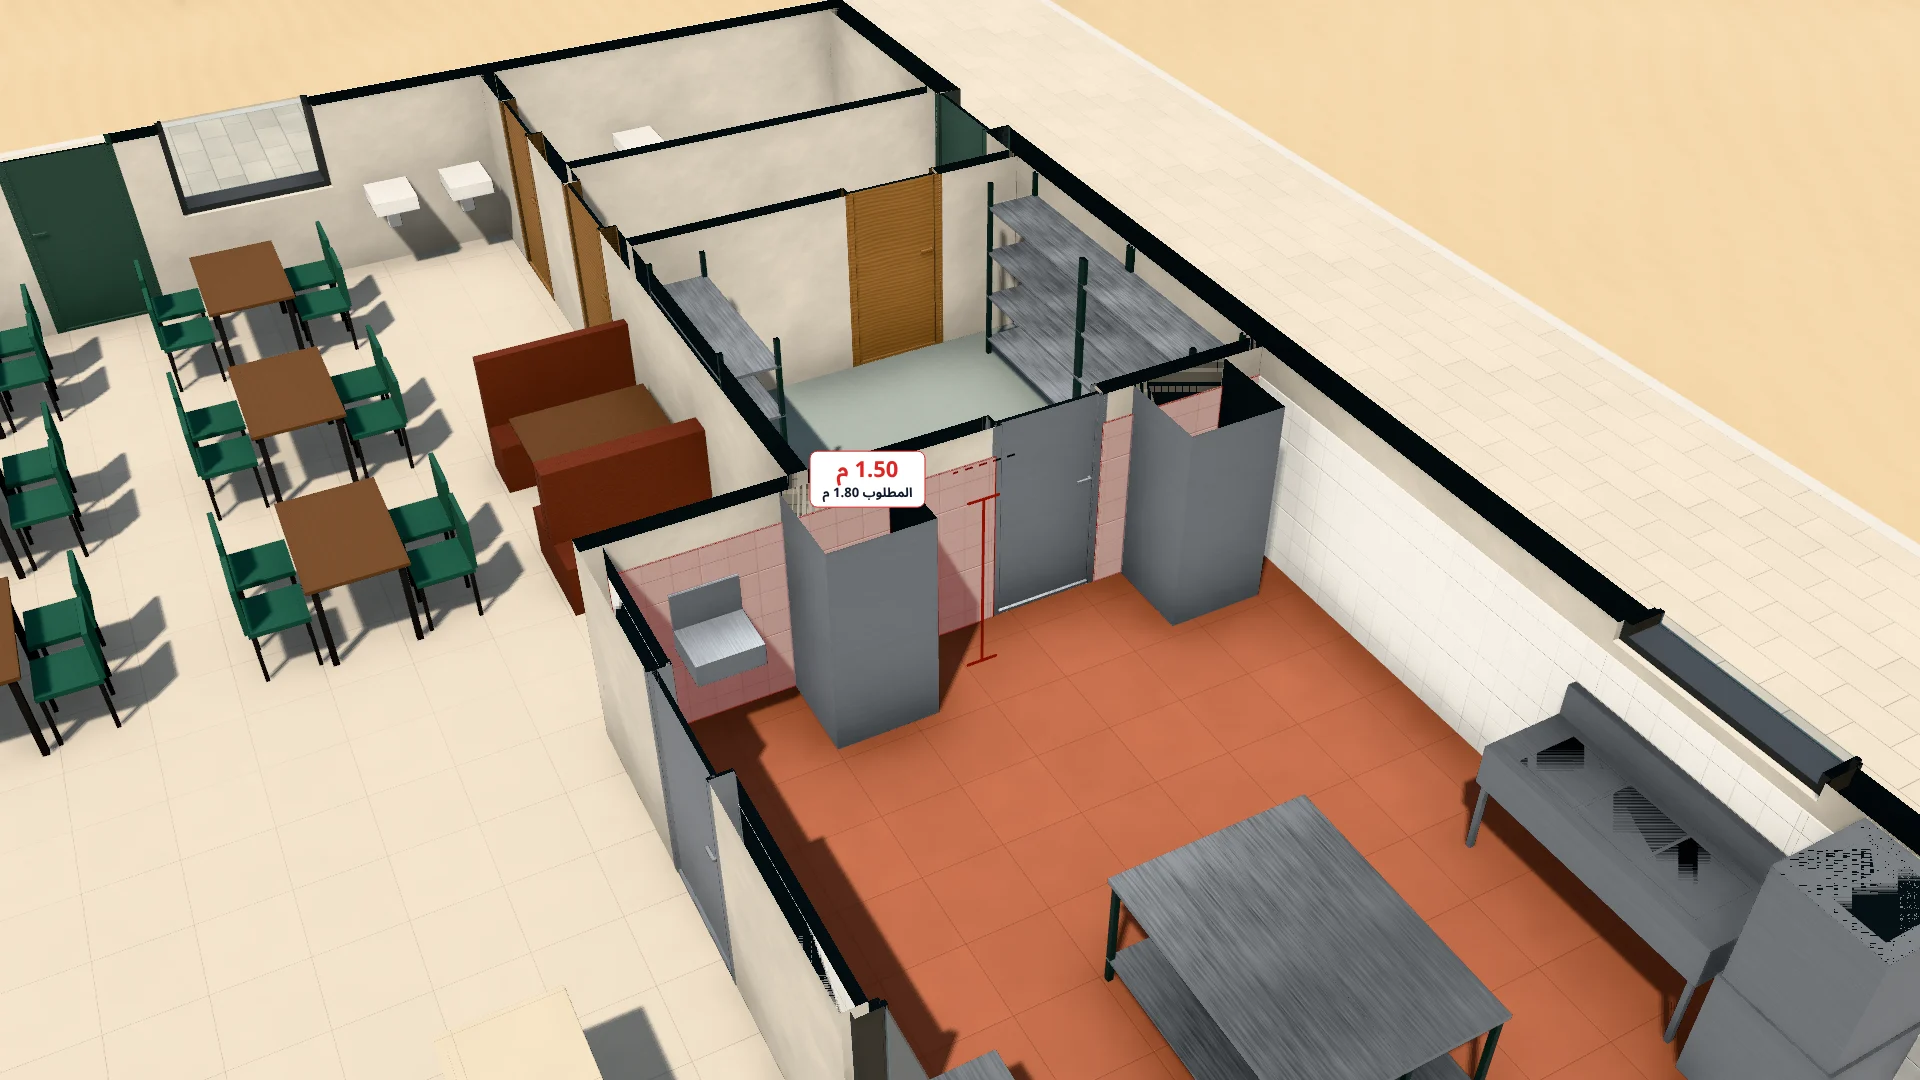
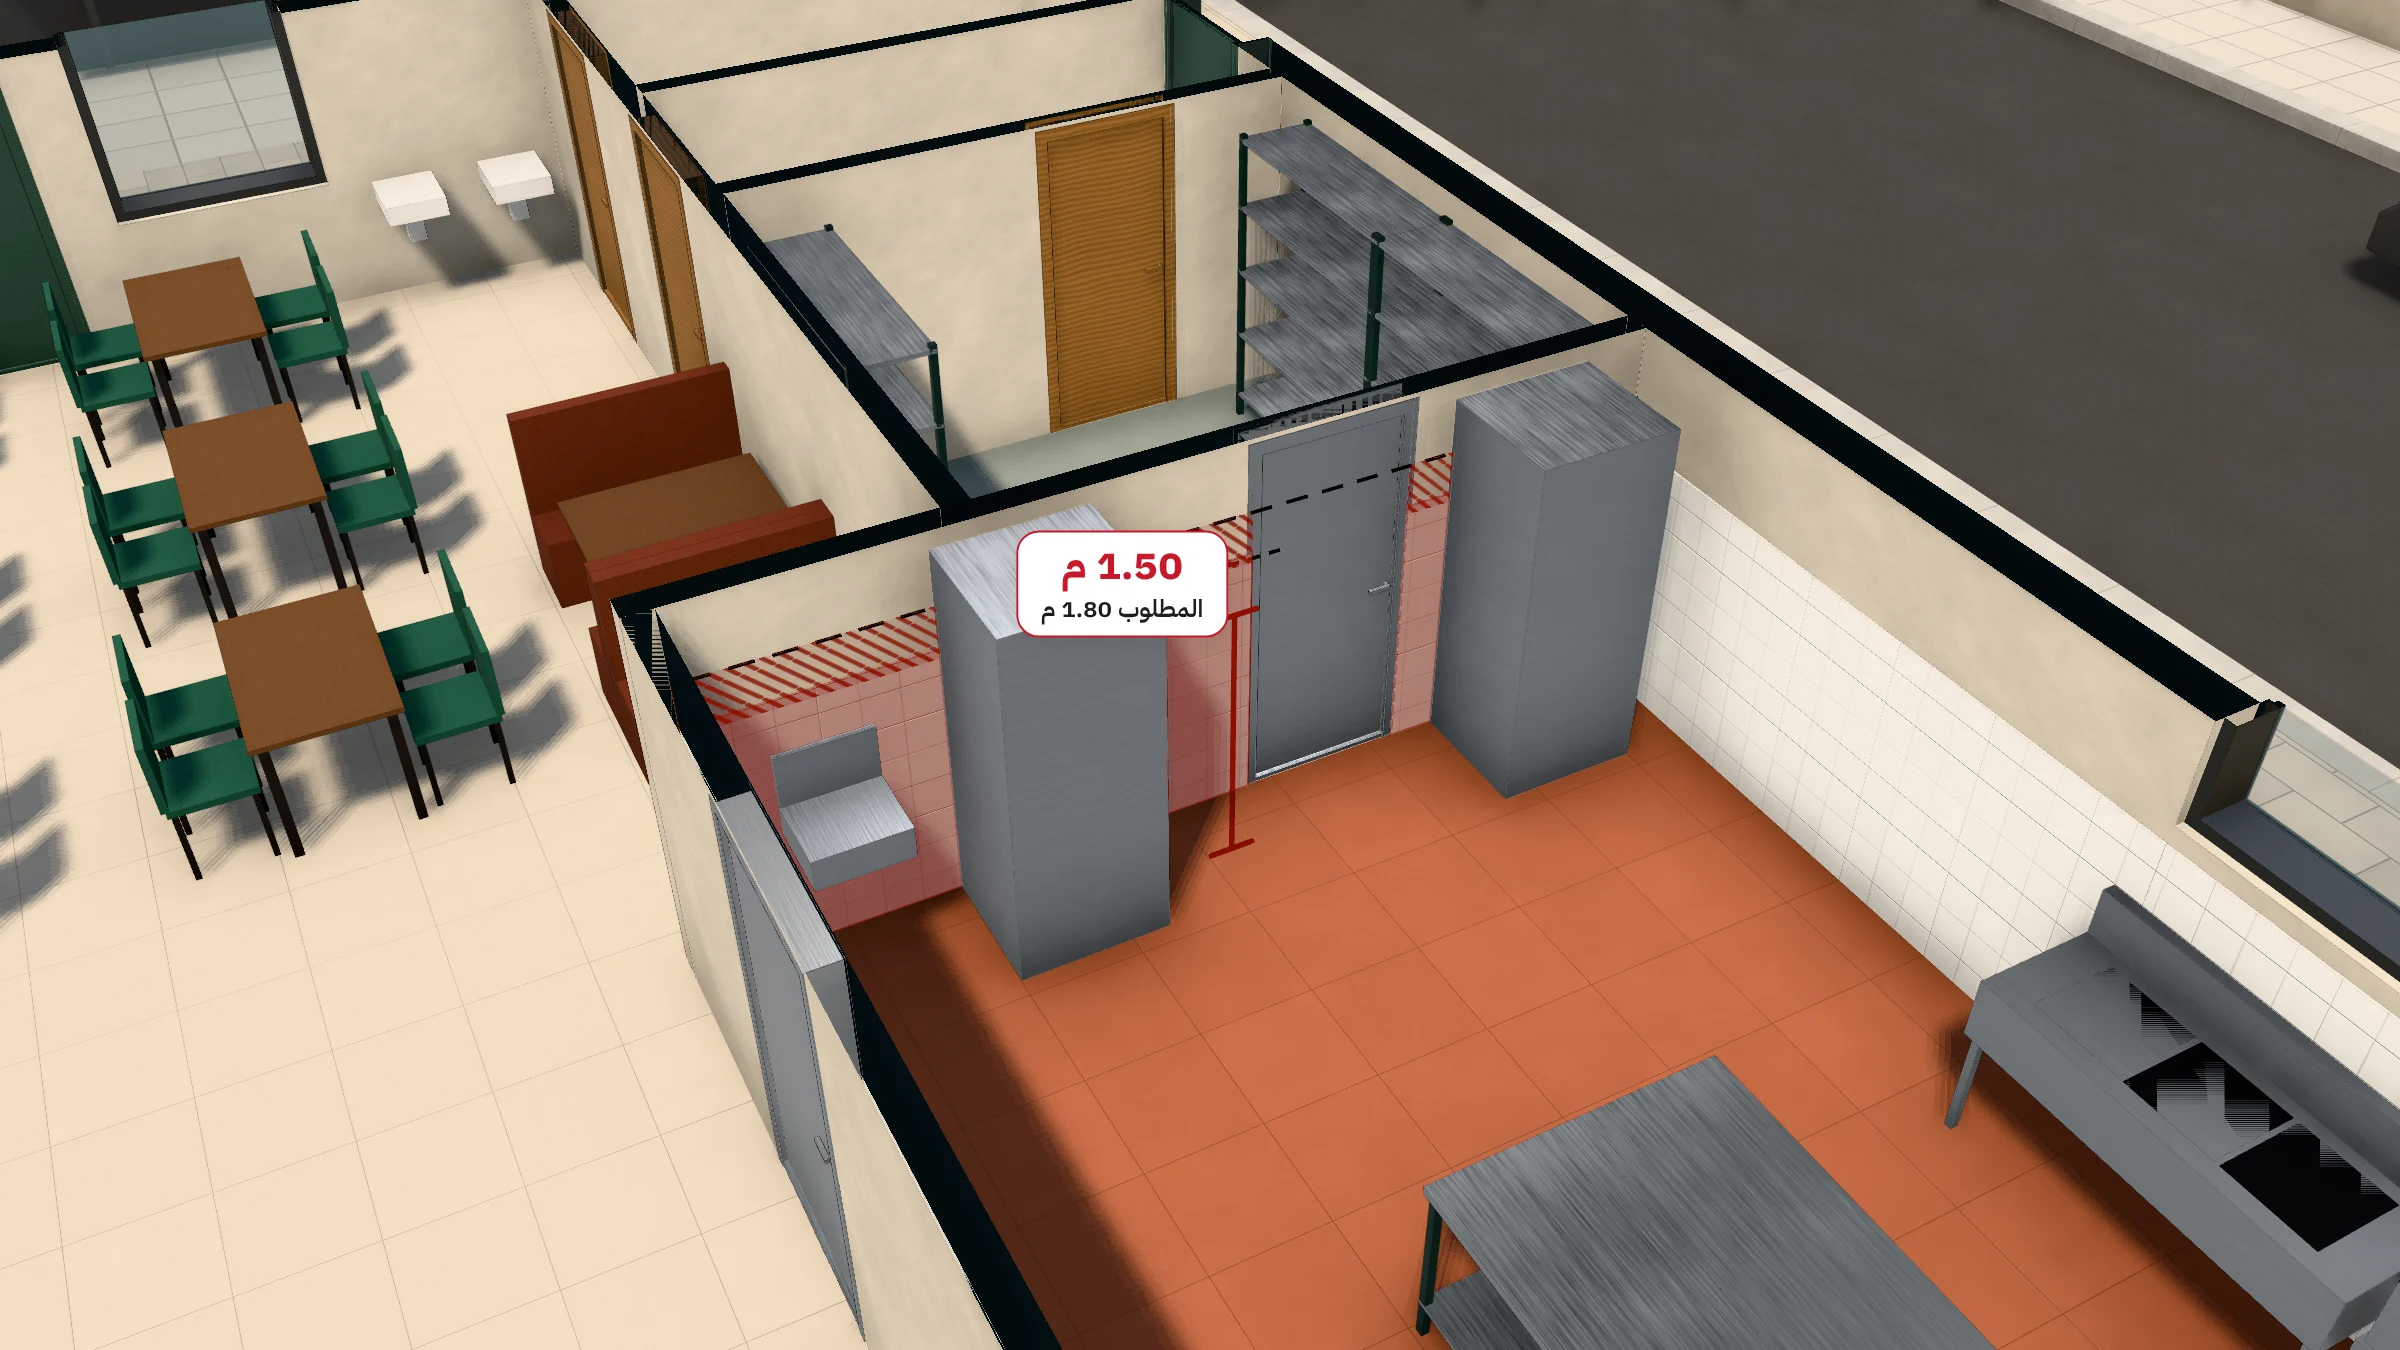
Riyadh street around the model and the twin; final story renders
The sample building now stands on a corner plot in a Riyadh street
(shared SaudiStreet: sidewalks, median palms, Najdi-style neighbours,
parked cars, city haze) in the results viewer and all three twin
scenes. The home page story images and model renders are re-captured
from the real check flow. The twin keeps its camera sightlines clear
through the street's own clear option instead of matching mesh names.

Claude-Session: https://claude.ai/code/session_014NTi94T6RLwaPPPAy7jpHb

diff --git a/src/components/scene/SaudiStreet.tsx b/src/components/scene/SaudiStreet.tsx
@@ -6,8 +6,9 @@ import { finishTextures, siteTextures } from "../ifcViewer/textures";
 
 /*
  * SaudiStreet: a lively Riyadh street block built around one building's footprint. Context only:
- * nothing here comes from a file. Everything is made in code (no downloads), static, instanced
- * (about 35 draw calls at "high"), so it costs nothing per frame beyond drawing it.
+ * nothing here comes from a file. Everything is made in code (no downloads), static and instanced
+ * (about 30 meshes at "high", fewer at "low"), so it costs nothing per frame beyond drawing it. The
+ * detailed street reaches about 86 m either side of the building; a plainer city runs on to about 500 m.
  *
  *   <SaudiStreet footprint={{ minX, minZ, maxX, maxZ }} groundY={0} front="south" />
  *
@@ -27,6 +28,8 @@ import { finishTextures, siteTextures } from "../ifcViewer/textures";
  *   sky        true       a light warm-haze sky dome; pass false when the host draws its own sky.
  *   shadows    true       the near context casts and receives shadows (the far city and skyline never do).
  *   seed       7          varies heights, colours and the parked cars.
+ *   clear      []         world plan rects { x0, x1, z0, z1 } kept clear for a host's cameras: no palm (with its
+ *                         planter), street lamp or car stands with its base inside one. Everything else stays put.
  *
  * Also exported: `streetBounds(props)`, the world plan box of the detailed street (for a shadow camera).
  *
@@ -46,6 +49,14 @@ export interface StreetFootprint {
   maxZ: number;
 }
 
+/** A plan rectangle in world metres (x east, z south). */
+export interface StreetRect {
+  x0: number;
+  x1: number;
+  z0: number;
+  z1: number;
+}
+
 export interface SaudiStreetProps {
   footprint: StreetFootprint;
   groundY?: number;
@@ -56,6 +67,7 @@ export interface SaudiStreetProps {
   sky?: boolean;
   shadows?: boolean;
   seed?: number;
+  clear?: readonly StreetRect[];
 }
 
 /* ---------------- street section (metres) ---------------- */
@@ -519,6 +531,23 @@ function surroundGeometry(w: number, h: number, t: number, d: number): THREE.Buf
   ]);
 }
 
+/** A clipped shrub: a smooth ball with a lumpy, leafy surface (about 0.5 m across, base near y 0). */
+function shrubGeometry(): THREE.BufferGeometry {
+  const g = new THREE.SphereGeometry(0.5, 20, 14);
+  const p = g.getAttribute("position");
+  const v = new THREE.Vector3();
+  for (let i = 0; i < p.count; i++) {
+    v.fromBufferAttribute(p, i);
+    const n = v.clone().normalize();
+    const lump = 1 + 0.07 * Math.sin(n.x * 9.1 + n.y * 3.7) * Math.sin(n.z * 8.3 - n.y * 5.1) + 0.035 * Math.sin(n.x * 23 + n.z * 19);
+    v.multiplyScalar(lump);
+    p.setXYZ(i, v.x, Math.max(v.y, -0.2), v.z);
+  }
+  g.translate(0, 0.3, 0);
+  g.computeVertexNormals();
+  return g;
+}
+
 /** Unit triangular prism: base 1 wide on y 0, apex at y 1, 1 deep centred on z 0. */
 function prismGeometry(): THREE.BufferGeometry {
   const shape = new THREE.Shape([new THREE.Vector2(-0.5, 0), new THREE.Vector2(0.5, 0), new THREE.Vector2(0, 1)]);
@@ -776,6 +805,31 @@ interface Batches {
   shrub: Batch;
 }
 
+function newBatches(): Batches {
+  return {
+    stone: new Batch(),
+    plain: new Batch(),
+    glass: new Batch(),
+    metal: new Batch(),
+    prism: new Batch(),
+    window: new Batch(),
+    slot: new Batch(),
+    cylinder: new Batch(),
+    far: new Batch(),
+    trunk: new Batch(),
+    crown: new Batch(),
+    lamp: new Batch(),
+    lamp2: new Batch(),
+    sedan: new Batch(),
+    sedanCabin: new Batch(),
+    suv: new Batch(),
+    suvCabin: new Batch(),
+    wheel: new Batch(),
+    cone: new Batch(),
+    shrub: new Batch(),
+  };
+}
+
 /** Puts a unit-box element on a facade: `u` along it, `v` up from the ground, `w` out from the wall. */
 function onFace(batch: Batch, face: Face, gy: number, u: number, v: number, w: number, size: [number, number, number], color?: string, tilt = 0) {
   const tx = Math.cos(face.rot);
@@ -929,6 +983,7 @@ const PAINTS = ["#f1f0ec", "#f1f0ec", "#eceae4", "#f3f2ee", "#c4c7ca", "#a9adb1"
 /* ---------------- the street ---------------- */
 
 interface Options {
+  clear: readonly StreetRect[];
   footprint: StreetFootprint;
   groundY: number;
   front: StreetSide;
@@ -1109,27 +1164,18 @@ function buildStreet(o: Options, tone: Tone): Built {
   add(withShadow(new THREE.Mesh(groundDisc, m.ground), false, recv), "city-ground");
 
   /* ---- buildings ---- */
-  const b: Batches = {
-    stone: new Batch(),
-    plain: new Batch(),
-    glass: new Batch(),
-    metal: new Batch(),
-    prism: new Batch(),
-    window: new Batch(),
-    slot: new Batch(),
-    cylinder: new Batch(),
-    far: new Batch(),
-    trunk: new Batch(),
-    crown: new Batch(),
-    lamp: new Batch(),
-    lamp2: new Batch(),
-    sedan: new Batch(),
-    sedanCabin: new Batch(),
-    suv: new Batch(),
-    suvCabin: new Batch(),
-    wheel: new Batch(),
-    cone: new Batch(),
-    shrub: new Batch(),
+  const b = newBatches();
+  // Items a host keeps clear (`clear`) go to a batch that is never drawn, so the seeded sequence, and with
+  // it every other palm, lamp and car, stays exactly where it would be without `clear`.
+  const sink = newBatches();
+  const cosA = Math.cos(frame.angle);
+  const sinA = Math.sin(frame.angle);
+  const at = (x: number, z: number): Batches => {
+    const wx = frame.cx + x * cosA + z * sinA;
+    const wz = frame.cz - x * sinA + z * cosA;
+    return o.clear.some((r) => wx > Math.min(r.x0, r.x1) && wx < Math.max(r.x0, r.x1) && wz > Math.min(r.z0, r.z1) && wz < Math.max(r.z0, r.z1))
+      ? sink
+      : b;
   };
   // Mirror helper: x on the side away from the corner is -s * |x|.
   const away = (x: number) => -s * x;
@@ -1188,10 +1234,11 @@ function buildStreet(o: Options, tone: Tone): Built {
       const dir = x1 >= x0 ? 1 : -1;
       for (let x = x0; (x1 - x) * dir >= 0; x += dir * stepM) {
         if (cross && x > cross.a - 1.5 && x < cross.b + 1.5) continue;
-        palm(b, random, [x, gy + (planter ? 0.48 : 0), z], high);
+        const to = at(x, z);
+        palm(to, random, [x, gy + (planter ? 0.48 : 0), z], high);
         if (planter) {
-          b.plain.add([x, gy + 0.24, z], [1.5, 0.48, 1.5], 0, "#ddd3c1");
-          b.plain.add([x, gy + 0.47, z], [1.26, 0.03, 1.26], 0, "#5e5141");
+          to.plain.add([x, gy + 0.24, z], [1.5, 0.48, 1.5], 0, "#ddd3c1");
+          to.plain.add([x, gy + 0.47, z], [1.26, 0.03, 1.26], 0, "#5e5141");
         }
       }
     };
@@ -1205,9 +1252,10 @@ function buildStreet(o: Options, tone: Tone): Built {
     else palmsX(front0, -range, zK - 1.4, 9, true);
     // One palm on the forecourt corner away from the corner, framing the frontage in the street views.
     const fx = s > 0 ? front0 - 1.2 : front1 + 1.2;
-    palm(b, random, [fx, gy + 0.48, plot.z1 - 2], high);
-    b.plain.add([fx, gy + 0.24, plot.z1 - 2], [1.5, 0.48, 1.5], 0, "#ddd3c1");
-    b.plain.add([fx, gy + 0.47, plot.z1 - 2], [1.26, 0.03, 1.26], 0, "#5e5141");
+    const fz = plot.z1 - 2;
+    palm(at(fx, fz), random, [fx, gy + 0.48, fz], high);
+    at(fx, fz).plain.add([fx, gy + 0.24, fz], [1.5, 0.48, 1.5], 0, "#ddd3c1");
+    at(fx, fz).plain.add([fx, gy + 0.47, fz], [1.26, 0.03, 1.26], 0, "#5e5141");
     // Low planters of shrubs along the forecourt's sides.
     for (const side of [-1, 1]) {
       const x = side * (frame.across + 1.6);
@@ -1222,28 +1270,28 @@ function buildStreet(o: Options, tone: Tone): Built {
     palmsX(-range - 5, range + 5, zm, 10, false);
     for (let x = -range + 10; x <= range; x += 30) {
       if (cross && x > cross.a - 4 && x < cross.b + 4) continue;
-      b.lamp2.add([x + 5, gy - 0.02, zm], [1, 1, 1], Math.PI / 2);
+      at(x + 5, zm).lamp2.add([x + 5, gy - 0.02, zm], [1, 1, 1], Math.PI / 2);
     }
     // Far sidewalk palms, and single lamps along both kerbs.
     palmsX(-range, range, zFar + 1.5, 10, false);
     for (let x = -range; x <= range; x += 25) {
       const xs = x + 12;
       if (!(xs > front0 - 2 && xs < front1 + 2) && !(cross && xs > cross.a - 2 && xs < cross.b + 2)) {
-        b.lamp.add([xs, gy, zK - 0.55], [1, 1, 1], -Math.PI / 2);
+        at(xs, zK - 0.55).lamp.add([xs, gy, zK - 0.55], [1, 1, 1], -Math.PI / 2);
       }
-      if (!(cross && x > cross.a - 2 && x < cross.b + 2)) b.lamp.add([x, gy, zFar + 0.55], [1, 1, 1], Math.PI / 2);
+      if (!(cross && x > cross.a - 2 && x < cross.b + 2)) at(x, zFar + 0.55).lamp.add([x, gy, zFar + 0.55], [1, 1, 1], Math.PI / 2);
     }
     if (cross) {
       // Along the cross street, beside the buildings (the corner itself stays open).
       const xa = cross.a - 1.3;
       const xb = cross.b + 1.3;
       for (let z = zRear + 4; z < zFront - 1.5; z += 9) {
-        palm(b, random, [xa, gy, z], high);
-        palm(b, random, [xb, gy, z], high);
+        palm(at(xa, z), random, [xa, gy, z], high);
+        palm(at(xb, z), random, [xb, gy, z], high);
       }
     }
     // Parked cars along both parking lanes and the cross street; a few on the move.
-    const park = (x: number, z: number, rot: number) => car(b, random, [x, road, z], rot);
+    const park = (x: number, z: number, rot: number) => car(at(x, z), random, [x, road, z], rot);
     for (let x = -range; x < range; x += 6.2) {
       // Customers park along the frontage too; the corner by the cross street stays clear.
       const clear = cross && (s > 0 ? x > cross.a - 13 && x < cross.b + 5 : x > cross.a - 5 && x < cross.b + 13);
@@ -1265,10 +1313,14 @@ function buildStreet(o: Options, tone: Tone): Built {
       park(away(26), zK + PARK + LANE * 0.5, 0);
       park(away(-6), zMed1 + LANE * 0.5, Math.PI);
       park(away(40), zMed1 + LANE * 1.5, Math.PI);
-      // Median planting between the palms.
+      // Median planting between the palms, along the stretch the cameras see (the seeded sequence runs on
+      // over the whole median, so everything placed after it stays put).
       for (const [a, c] of spans(2)) {
         for (let x = Math.max(a, -NEAR) + 1.5; x < Math.min(c, NEAR) - 1.5; x += 2.2) {
-          b.shrub.add([x + random() * 0.6, gy - 0.05, zm + (random() - 0.5) * 0.6], [0.9 + random() * 0.5, 0.45 + random() * 0.3, 0.9 + random() * 0.3], random() * 3);
+          const at3: [number, number, number] = [x + random() * 0.6, gy - 0.05, zm + (random() - 0.5) * 0.6];
+          const size: [number, number, number] = [0.9 + random() * 0.5, 0.45 + random() * 0.3, 0.9 + random() * 0.3];
+          const turn = random() * 3;
+          if (Math.abs(x) < 52) b.shrub.add(at3, size, turn);
         }
       }
       // Cafe umbrellas in front of the shops across the street.
@@ -1317,7 +1369,7 @@ function buildStreet(o: Options, tone: Tone): Built {
   const slotSurround = own(surroundGeometry(0.8, 2.1, 0.14, 0.16));
   const cylinder = own(new THREE.CylinderGeometry(1, 1, 1, 14));
   const cone = own(new THREE.ConeGeometry(1, 1, 10, 1, false));
-  const shrub = own(new THREE.SphereGeometry(0.5, 10, 6).translate(0, 0.3, 0));
+  const shrub = own(shrubGeometry());
   add(b.stone.mesh(unit, m.stone, cast, recv), "neighbours");
   add(b.plain.mesh(unit, m.plain, cast, recv), "details");
   add(b.glass.mesh(unit, m.glass, false, recv), "glazing");
@@ -1489,13 +1541,20 @@ export function SaudiStreet({
   sky = true,
   shadows = true,
   seed = 7,
+  clear,
 }: SaudiStreetProps) {
   const invalidate = useThree((state) => state.invalidate);
   const tone = useMemo<Tone>(() => ({ desat: { value: 0.18 }, flat: { value: 0.09 }, ground: { value: 0 } }), []);
   const { minX, minZ, maxX, maxZ } = footprint;
+  // Hosts usually pass `clear` inline: rebuild only when its values change.
+  const clearKey = JSON.stringify(clear ?? []);
   const built = useMemo(
-    () => buildStreet({ footprint: { minX, minZ, maxX, maxZ }, groundY, front, corner, detail, sky, shadows, seed }, tone),
-    [minX, minZ, maxX, maxZ, groundY, front, corner, detail, sky, shadows, seed, tone],
+    () =>
+      buildStreet(
+        { footprint: { minX, minZ, maxX, maxZ }, groundY, front, corner, detail, sky, shadows, seed, clear: JSON.parse(clearKey) as StreetRect[] },
+        tone,
+      ),
+    [minX, minZ, maxX, maxZ, groundY, front, corner, detail, sky, shadows, seed, clearKey, tone],
   );
   useEffect(() => () => built.dispose(), [built]);
   useEffect(() => {

diff --git a/src/components/VenueScene3D.tsx b/src/components/VenueScene3D.tsx
@@ -78,53 +78,13 @@ export function TwinHaze({haze=1}:{haze?:number}){
     and the axis in front of the building out to the far sidewalk (the facade view). */
 const SIGHTLINES=[{x0:-13,x1:15,z0:6.5,z1:19},{x0:-7,x1:7,z0:19,z1:46}];
 
-/**
- * The shared street frames a frontage with palms in its forecourt, on the near sidewalk and on the median;
- * in the twin those stand on the cameras' lines of sight and hide the model. Fold those palms (and their
- * planters) away; every other palm on the street stays.
- */
-function clearSightline(root:THREE.Object3D){
- const m=new THREE.Matrix4(),p=new THREE.Vector3(),q=new THREE.Quaternion(),s=new THREE.Vector3();
- const zero=new THREE.Matrix4().makeScale(0,0,0);
- const inside=(v:THREE.Vector3)=>SIGHTLINES.some(r=>v.x>r.x0&&v.x<r.x1&&v.z>r.z0&&v.z<r.z1);
- const cleared:THREE.Vector3[]=[];
- const fold=(mesh:THREE.InstancedMesh,test:(i:number)=>boolean)=>{
-  let changed=false;
-  for(let i=0;i<mesh.count;i++){
-   mesh.getMatrixAt(i,m);m.decompose(p,q,s);
-   if(test(i)){mesh.setMatrixAt(i,zero);changed=true;}
-  }
-  if(changed){mesh.instanceMatrix.needsUpdate=true;mesh.computeBoundingSphere();}
- };
- root.traverse(o=>{
-  if(!(o instanceof THREE.InstancedMesh)||!/palm/.test(o.name))return;
-  fold(o,()=>{
-   if(!inside(p))return false;
-   if(/trunk/.test(o.name))cleared.push(p.clone());
-   return true;
-  });
- });
- if(!cleared.length)return;
- root.traverse(o=>{
-  if(!(o instanceof THREE.InstancedMesh)||o.name!=="details")return;
-  fold(o,()=>s.y<.6&&cleared.some(c=>Math.abs(c.x-p.x)<.05&&Math.abs(c.z-p.z)<.05));
- });
-}
-
-/** The Riyadh street around a twin scene (shared with the results viewer): fewer details on touch screens. */
+/** The Riyadh street around a twin scene (shared with the results viewer): fewer details on touch screens.
+    Palms, lamps and cars on the cameras' sightlines are left out by the street itself (`clear`). */
 export function TwinStreet(){
  const coarse=useMediaQuery("(pointer: coarse)");
  const detail:StreetDetail=coarse?"medium":"high";
- const wrap=useRef<THREE.Group>(null);
- const done=useRef<THREE.Object3D|null>(null);
- useFrame(()=>{
-  const street=wrap.current?.children[0];
-  if(!street||street===done.current)return;
-  done.current=street;
-  clearSightline(street);
- });
- return <group ref={wrap} name="twin-street">
-   <SaudiStreet footprint={TWIN_FOOTPRINT} groundY={0} front="south" corner="right" detail={detail} intensity={.62}/>
+ return <group name="twin-street">
+   <SaudiStreet footprint={TWIN_FOOTPRINT} groundY={0} front="south" corner="right" detail={detail} intensity={.62} clear={SIGHTLINES}/>
  </group>;
 }
 
